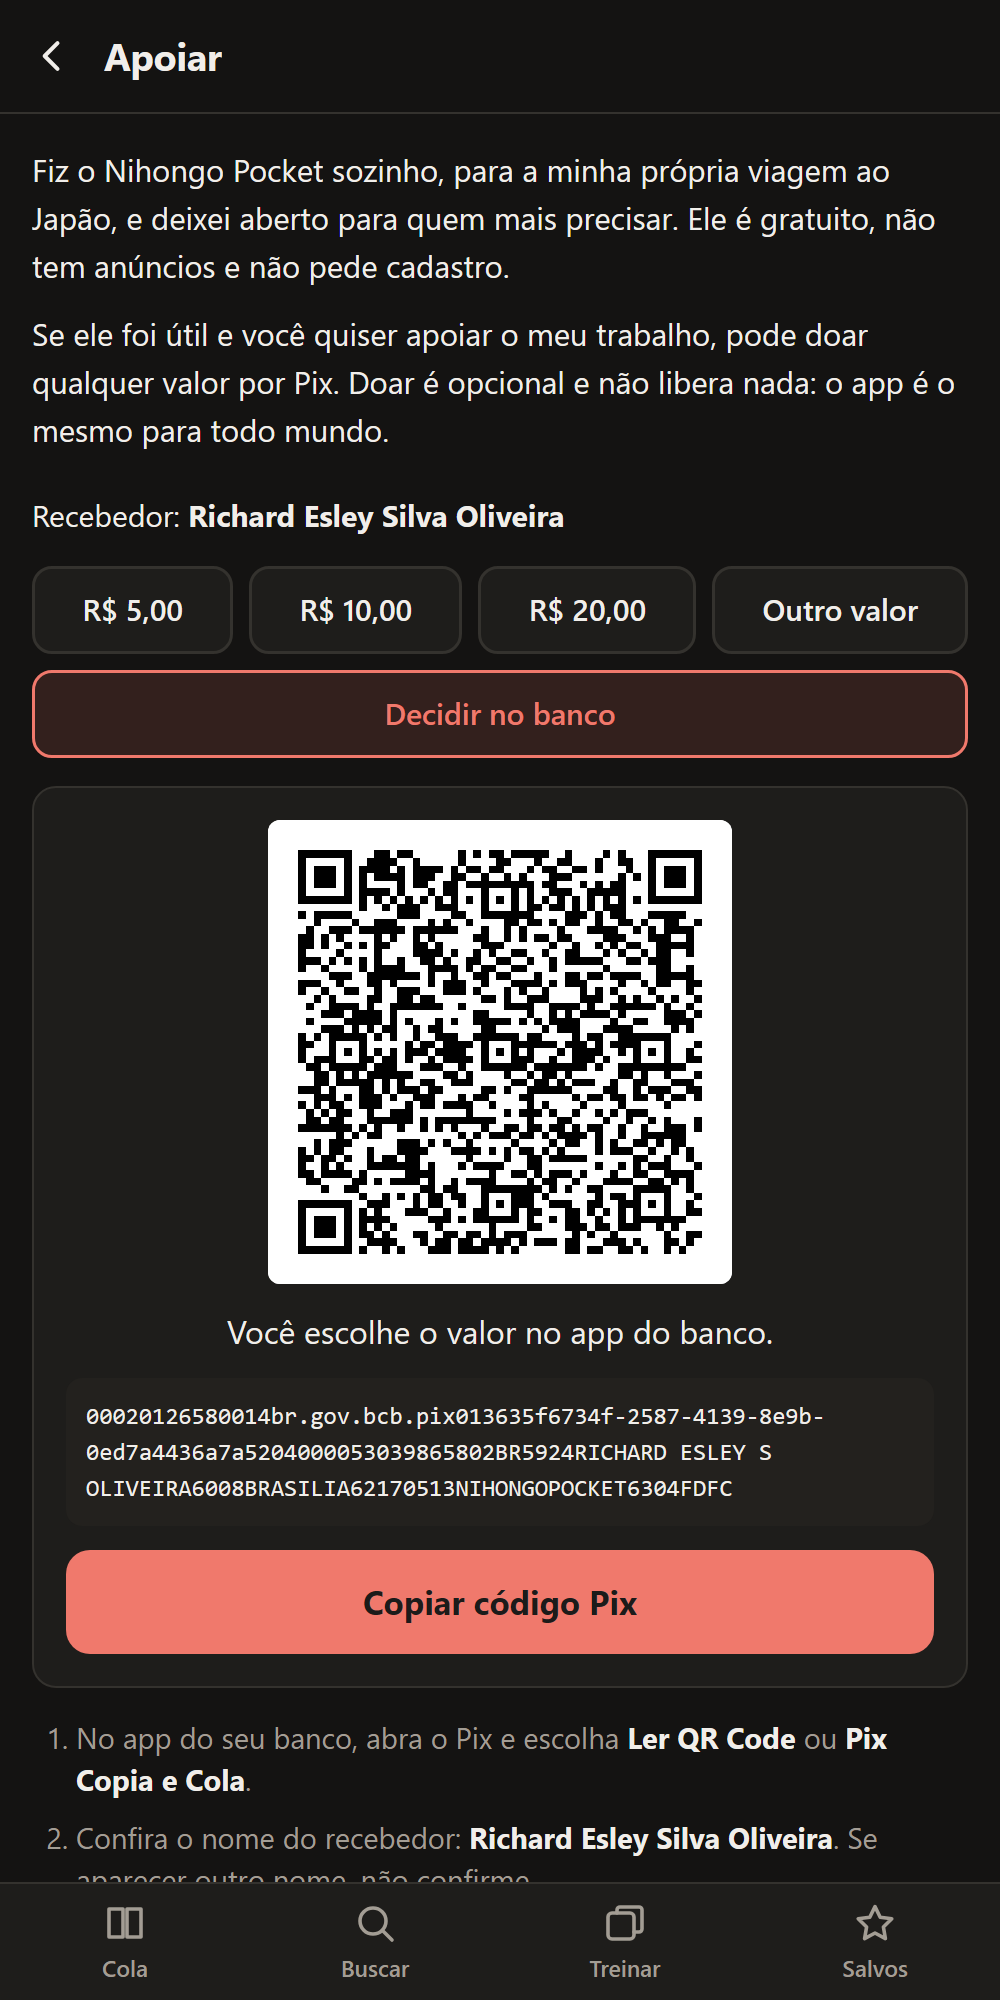
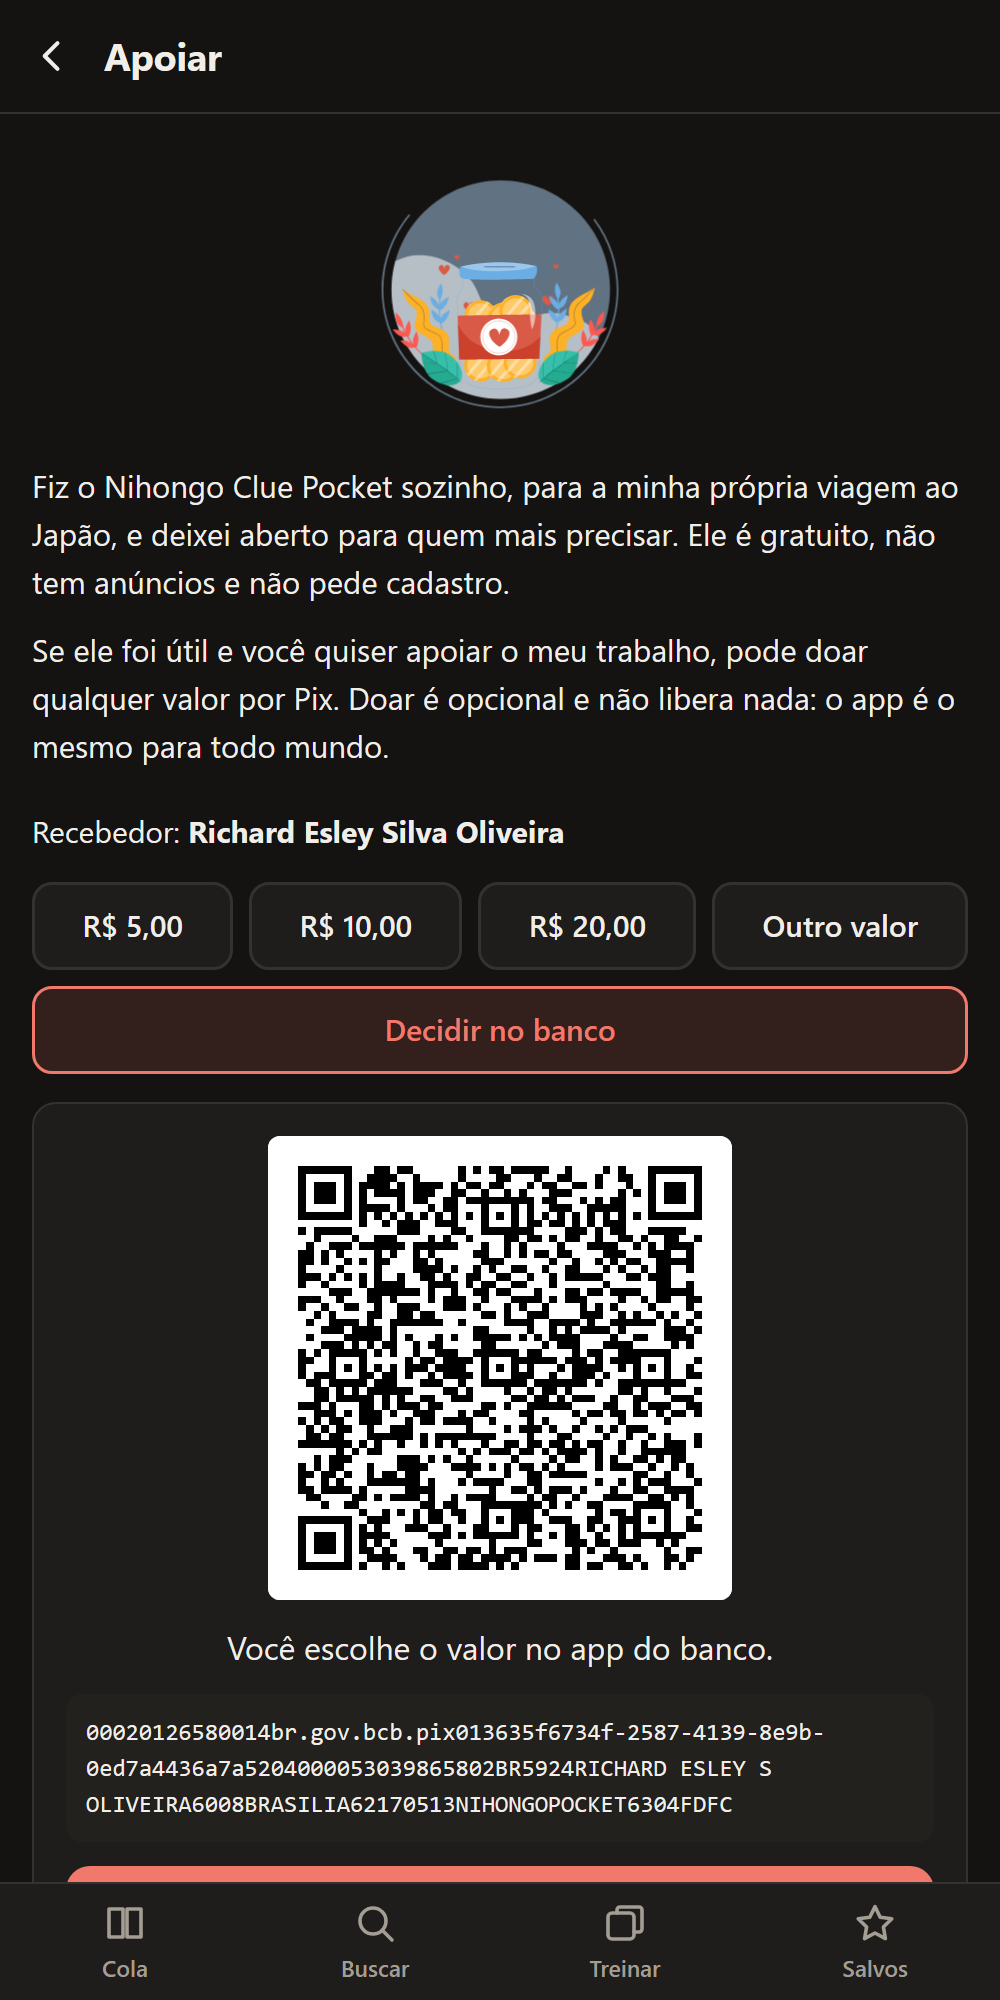
docs: describe the support invite and refresh screenshots

diff --git a/AGENTS.md b/AGENTS.md
@@ -16,7 +16,9 @@ As regras gerais (identidade Git, gatilho "Manda pro GitHub", doações) estão 
 * `js/data.js`: todo o conteúdo (`SECTIONS`), transcrito dos PDFs "Japonês para Viagem" (Guia e Cola de Bolso), mais a seção de kana
 * `js/app.js`: rotas por hash (`#/`, `#/s/<id>`, `#/buscar`, `#/treinar`, `#/salvos`, `#/apoiar`, `#/termos`, `#/privacidade`), busca, treino, tela cheia, áudio
 * `js/pix.js`: BR Code do Pix e configuração da doação (txid `NIHONGOPOCKET`); `js/legal.js`: termos e privacidade
-* `vendor/qrcode-generator.js`: biblioteca MIT, carregada sob demanda na tela de apoio
+* `js/invite.js`: convite de apoio (cartão e janela em duas etapas, a partir da 5ª abertura) e as animações de doação
+* `animations/`: aceno (`donation-wave.webp`), potinho (`donation-jar.json`) e coração da recusa (`donation-heart.json`)
+* `vendor/`: `qrcode-generator.js` e `lottie_light.min.js` (ambas MIT), carregadas sob demanda
 * `sw.js`: cache offline; `manifest.webmanifest` e `icons/`: instalação como app
 * `tests/`: `node --test`; `docs/screenshots/`: imagens do README
 
@@ -36,8 +38,10 @@ O CI (`.github/workflows/ci.yml`) roda `check` e `test` a cada push
 * Arquivo novo carregado pela página entra na lista `ASSETS` de `sw.js` (há teste que cobra isso)
 * Em `data.js`: `S` = você diz (vermelho), `H` = você ouve (azul, com dica ou resposta), `P` = placa ou palavra. Use kanji normais, nunca os radicais Kangxi que saem ao copiar texto do PDF (ex.: `日`, não `⽇`)
 * Tabelas e dicas aceitam HTML em `data.js`; frases são escapadas
-* Favoritos e progresso do treino ficam só no `localStorage` do aparelho (`np.fav`, `np.known`); não há servidor, login nem analytics. Se isso mudar, revise `js/legal.js` e a data `legalUpdated`
+* Favoritos e progresso do treino ficam só no `localStorage` do aparelho (`np.fav`, `np.known`), assim como a contagem de aberturas e as escolhas do convite (`np.visits`, `np.invite-seen`, `np.card-hidden`); não há servidor, login nem analytics. Se isso mudar, revise `js/legal.js` e a data `legalUpdated`
 * Doações: não troque chave, nome ou cidade em `js/pix.js`. Depois de mexer no Pix ou no QR, além de `npm test`, decodifique o QR Code renderizado na tela e compare com o código exibido (teste 3 do `DOACOES.md`)
+* O coração toca uma vez, dos quadros 40 a 330, e fica na tela: o `heart.json` original termina fazendo-o sumir. Os originais das animações ficam em `OneDrive/Documents/Fate Eight - One Drive/Animations`
+* O nome do app é Nihongo Clue Pocket; o txid do Pix continua `NIHONGOPOCKET` para não mudar o identificador no extrato
 * O service worker só registra em HTTPS; o modo offline é testado no deploy
 * Os PDFs de origem ficam fora do repositório (`.gitignore`); `.vercelignore` tira testes e documentação da hospedagem
 * Capturas do README: Chrome headless com `--window-size=500,1000 --force-device-scale-factor=2`, salvando fora de pastas com espaço no caminho e copiando depois

diff --git a/README.md b/README.md
@@ -78,6 +78,7 @@ HTML, CSS e JavaScript puros. Sem framework, sem etapa de build e sem nenhuma de
 - **Offline primeiro.** O [service worker](sw.js) pré-carrega tudo na instalação e responde do cache na hora, atualizando em segundo plano quando há rede.
 - **Sem servidor e sem conta.** Favoritos e progresso ficam no `localStorage` do aparelho. Não há login, analytics, cookies nem requisições externas; as fontes são as do sistema.
 - **Áudio do aparelho.** A pronúncia usa a Web Speech API com a voz japonesa já instalada no celular, então não há arquivos de áudio para baixar.
+- **Convite discreto.** Depois de algumas aberturas o app agradece e pergunta, uma única vez, se a pessoa quer apoiar. Quem recusa recebe um coração e nunca mais vê a janela.
 - **Pix sem intermediário.** A tela de apoio monta o código "Pix Copia e Cola" (BR Code estático, padrão EMV do Banco Central) e o QR Code no próprio navegador. O app não sabe se alguém doou.
 - **Acessível e adaptável.** Tema claro e escuro pelo sistema, foco visível, alvos de toque grandes, navegação por teclado e respeito a `prefers-reduced-motion`.
 
@@ -93,8 +94,10 @@ HTML, CSS e JavaScript puros. Sem framework, sem etapa de build e sem nenhuma de
 │   ├── data.js             todo o conteúdo (situações, frases, placas, kana)
 │   ├── app.js              rotas, telas, busca, treino, tela cheia, áudio
 │   ├── pix.js              BR Code do Pix e configuração da doação
+│   ├── invite.js           convite de apoio e animações de doação
 │   └── legal.js            termos de uso e política de privacidade
-├── vendor/                 qrcode-generator (MIT), carregado só na tela de apoio
+├── animations/             aceno, potinho e coração do convite de apoio
+├── vendor/                 qrcode-generator e lottie-web light (MIT), carregados sob demanda
 ├── icons/                  ícones do app
 ├── tests/                  testes do Pix, do conteúdo e do leitor de preços
 └── docs/screenshots/       imagens deste README
@@ -146,7 +149,7 @@ O app é gratuito e vai continuar assim. Se ele ajudou na sua viagem, há uma te
 
 ## Licença
 
-[MIT](LICENSE) © Richard Oliveira. O QR Code usa [qrcode-generator](https://github.com/kazuhikoarase/qrcode-generator), de Kazuhiko Arase (MIT).
+[MIT](LICENSE) © Richard Oliveira. O QR Code usa [qrcode-generator](https://github.com/kazuhikoarase/qrcode-generator), de Kazuhiko Arase, e as animações usam [lottie-web](https://github.com/airbnb/lottie-web), da Airbnb (ambos MIT).
 
 <div align="center">
 <br>
